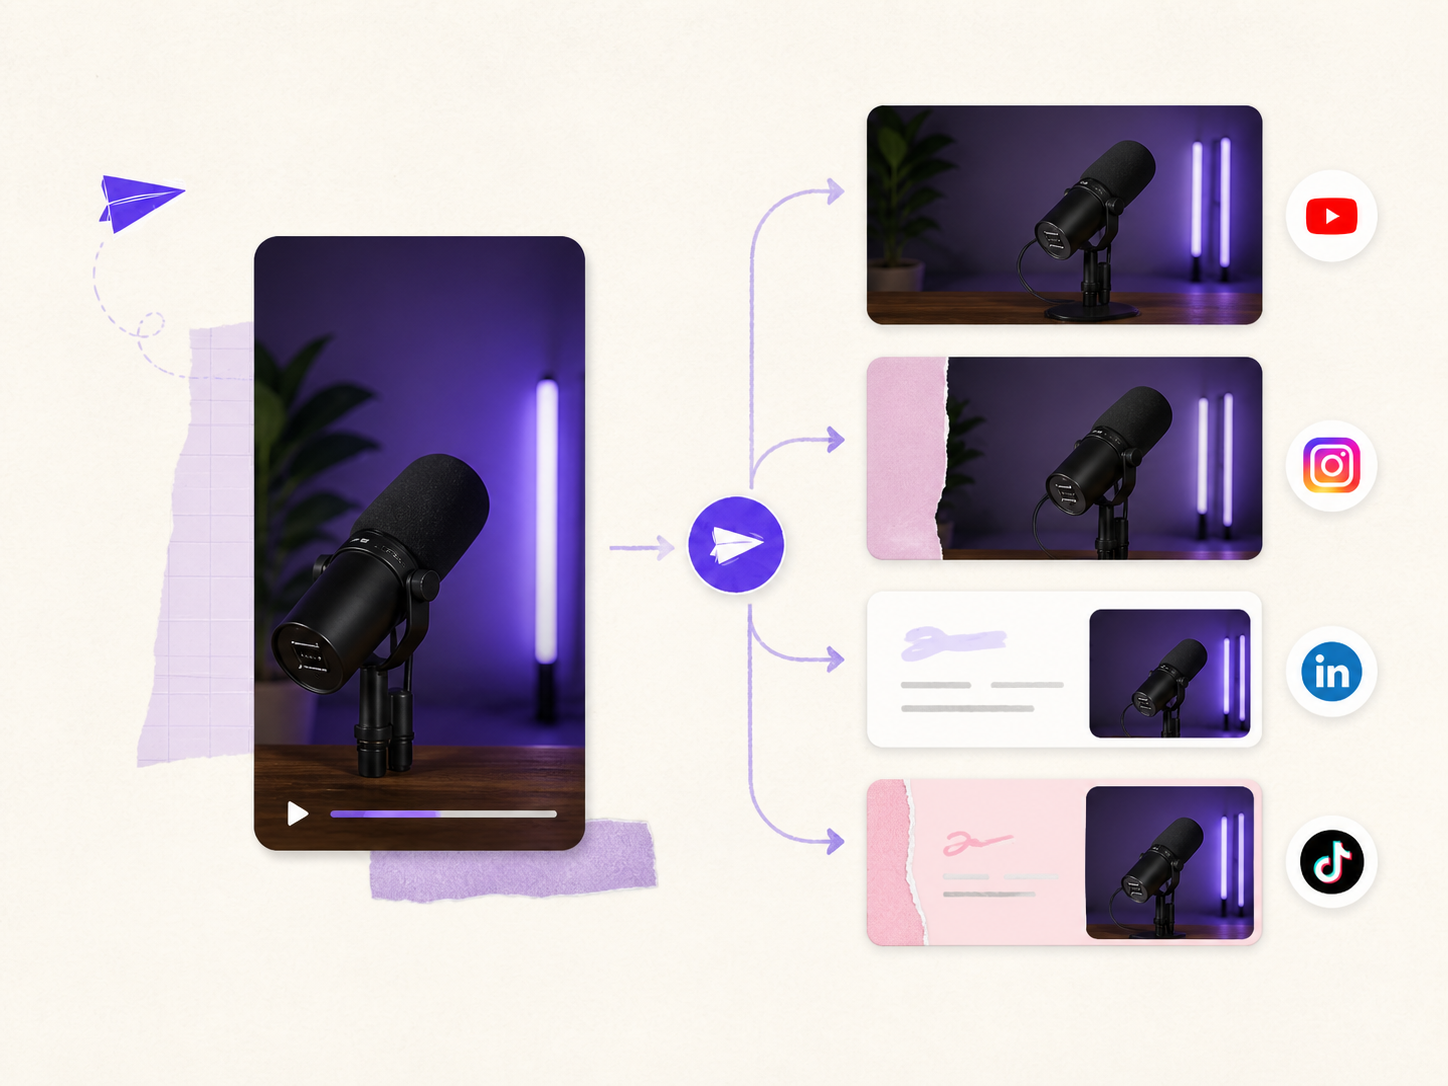
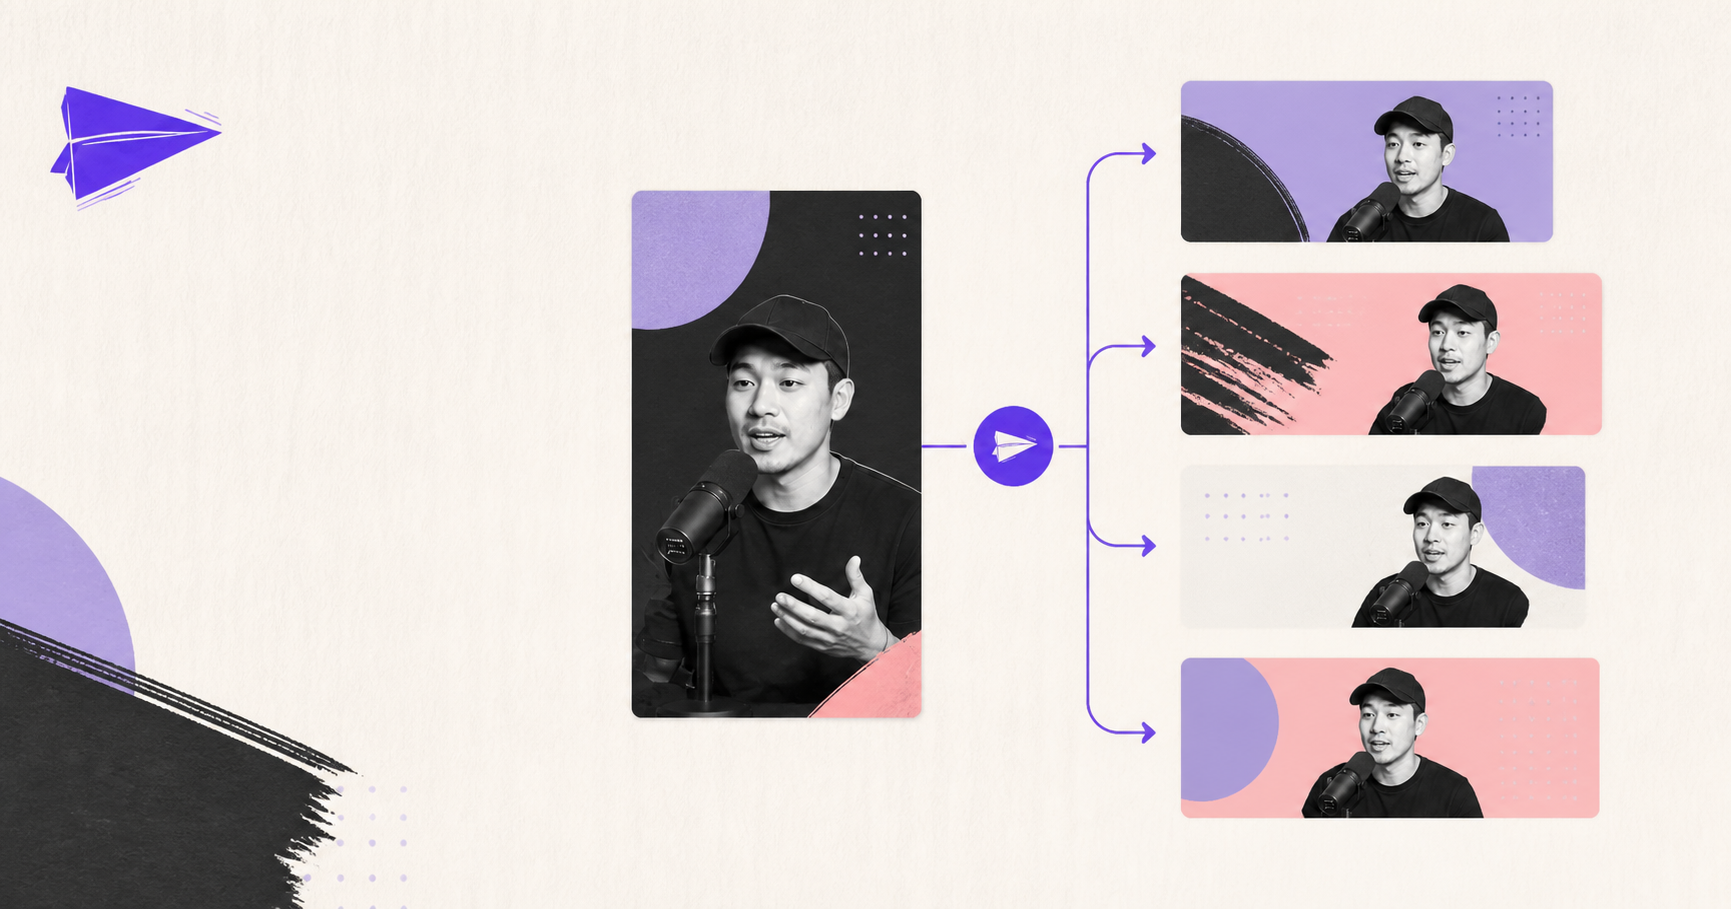
Use supplied partner artwork

diff --git a/design-qa.md b/design-qa.md
@@ -1,10 +1,10 @@
 # Repostit Partners landing — design QA
 
-Source visual truth: `C:\Users\habib\.codex\generated_images\019f4c0c-a699-78c0-8288-0c12971ab0fc\exec-deeaa548-4bcd-4fc4-8db1-892f220ce436.png` (selected ideation direction 2, 1536 × 1024)
+Source visual truth: the user-supplied artwork `C:\Users\habib\AppData\Local\Temp\codex-clipboard-9dd25df2-d76c-475b-b601-9e05b1865dbe.png` (1731 × 909). It is used directly as both the hero workflow image and the social preview image.
 
 Implementation evidence: `qa-implementation.png` (browser-rendered local page, 1264 × 1934) and `qa-implementation-fold.png` (same page, above-the-fold crop, 1264 × 720).
 
-Combined comparison input: `qa-comparison.png` (source normalized to 1080 × 720 beside the implementation fold at 1264 × 720).
+Combined comparison input: `qa-comparison.png` (source normalized to 1371 × 720 beside the implementation fold at 1264 × 720).
 
 Viewport: 1280 × 720 CSS px; browser device scale factor 1; local URL `http://localhost:8099/`; route `/`; light theme; unauthenticated state; page at scroll position 0 for the fold comparison.
 
@@ -17,7 +17,7 @@ Required fidelity surfaces:
 - Fonts and typography: `Space Grotesk` is used for display headings and `DM Sans` for body/UI copy; weights, compact tracking, and responsive wrapping match the selected editorial direction.
 - Spacing and layout rhythm: the two-column hero, bordered benefit strip, three-step section, and final CTA use the same generous whitespace and thin-rule rhythm; the layout collapses to one column below 840px.
 - Colors and visual tokens: `#fbfaf8` paper, `#17141c` ink, `#5b3df5` purple, lavender, and blush tokens are applied consistently; no gradients are used.
-- Image quality and asset fidelity: the generated workflow visual is placed as a real raster asset at `public/assets/images/partner-workflow.png`; the purple plane mark uses the supplied Repostit favicon asset rather than CSS/SVG approximations. The generated social preview is stored at `public/assets/images/partner-og.png`.
+- Image quality and asset fidelity: the exact user-supplied raster is placed at `public/assets/images/partner-workflow.png` and `public/assets/images/partner-og.png` (SHA-256 identical to the attachment); the purple plane mark in the page chrome uses the supplied Repostit favicon asset rather than CSS/SVG approximations.
 - Copy and content: the live offer is explicit and deterministic — 20% recurring commission, free-to-join positioning, one referral link, reporting, and the `/register` and `/login` paths.
 
 ## Interaction checks
@@ -31,7 +31,7 @@ Live deployment check: `https://partners.repostit.io/` returned the redesigned h
 
 ## Comparison history
 
-1. Initial comparison: selected direction 2 and the rendered page were captured together in `qa-comparison.png`. No P0/P1/P2 drift was found. The implementation intentionally replaces generated mock text with exact program copy and uses a generated workflow asset with the same visual role.
+1. Initial comparison: the selected user-supplied artwork and rendered page were captured together in `qa-comparison.png`. No P0/P1/P2 drift was found. The implementation keeps the artwork exact and uses deterministic HTML for the surrounding program copy.
 
 ## Follow-up polish
 
